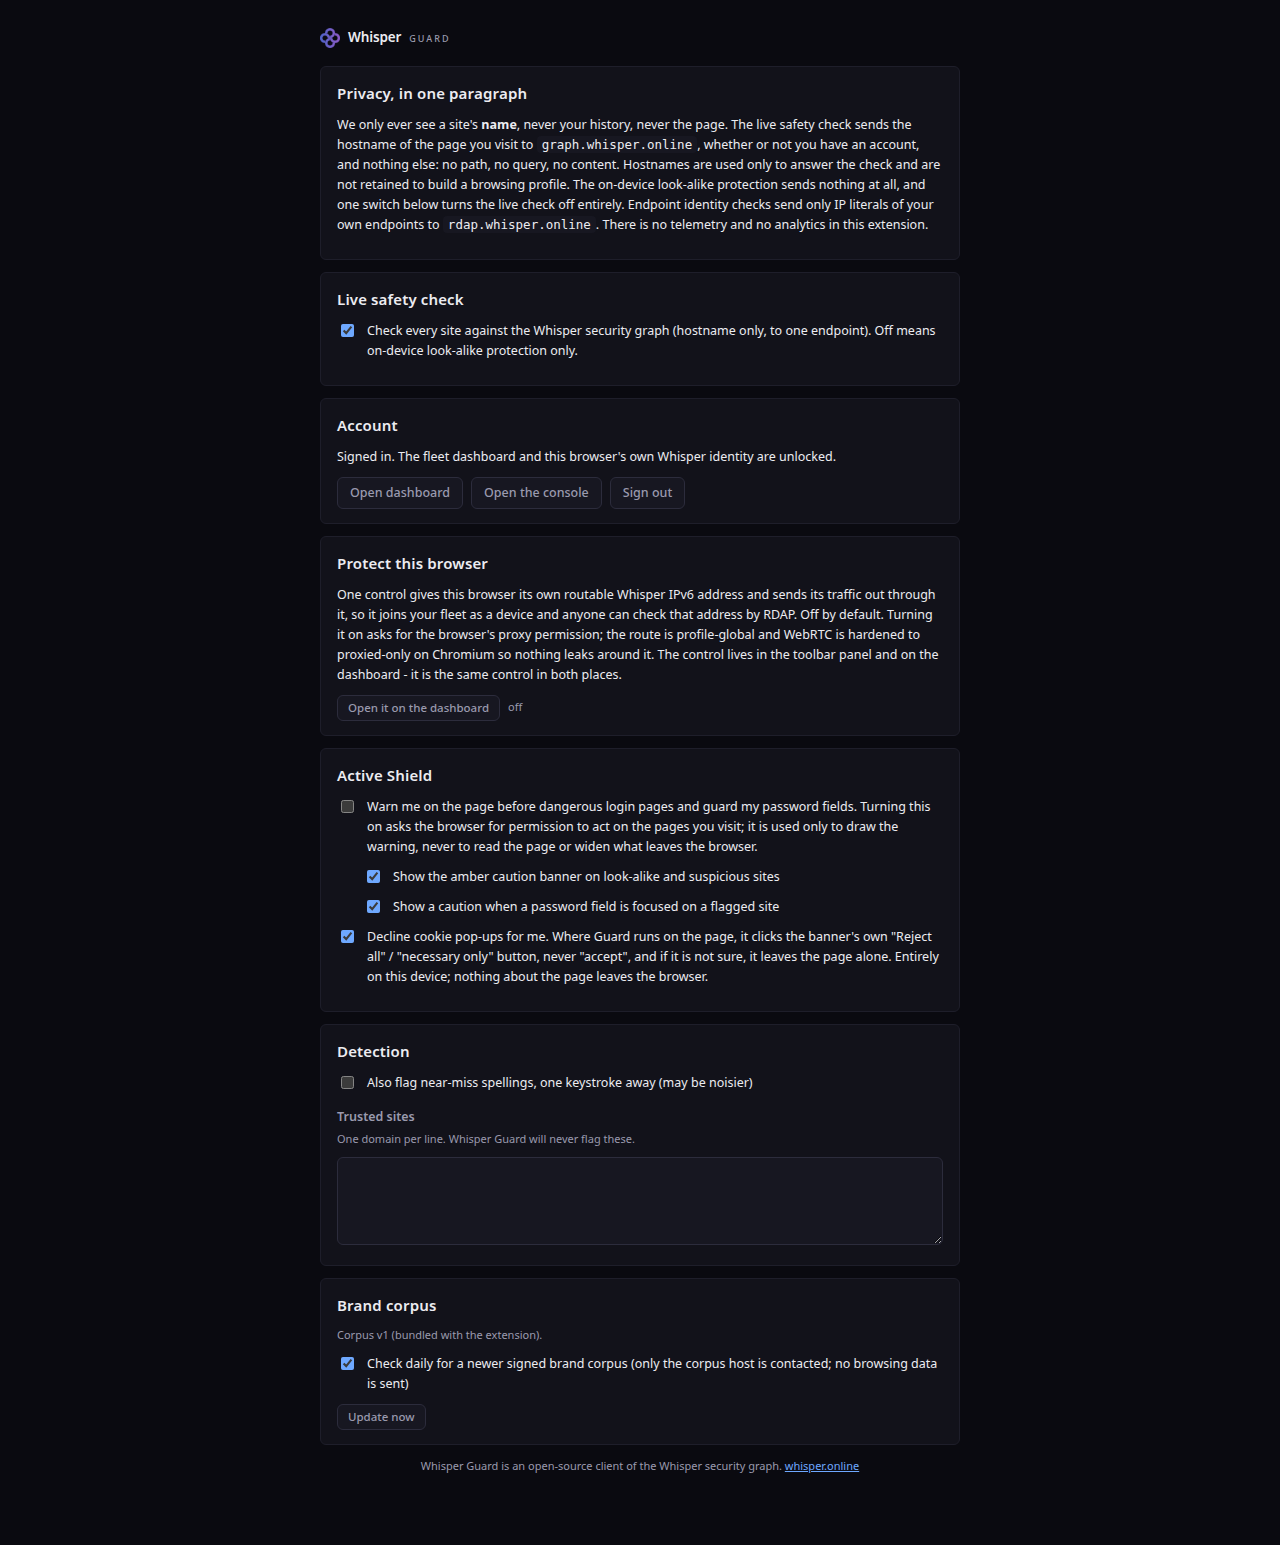
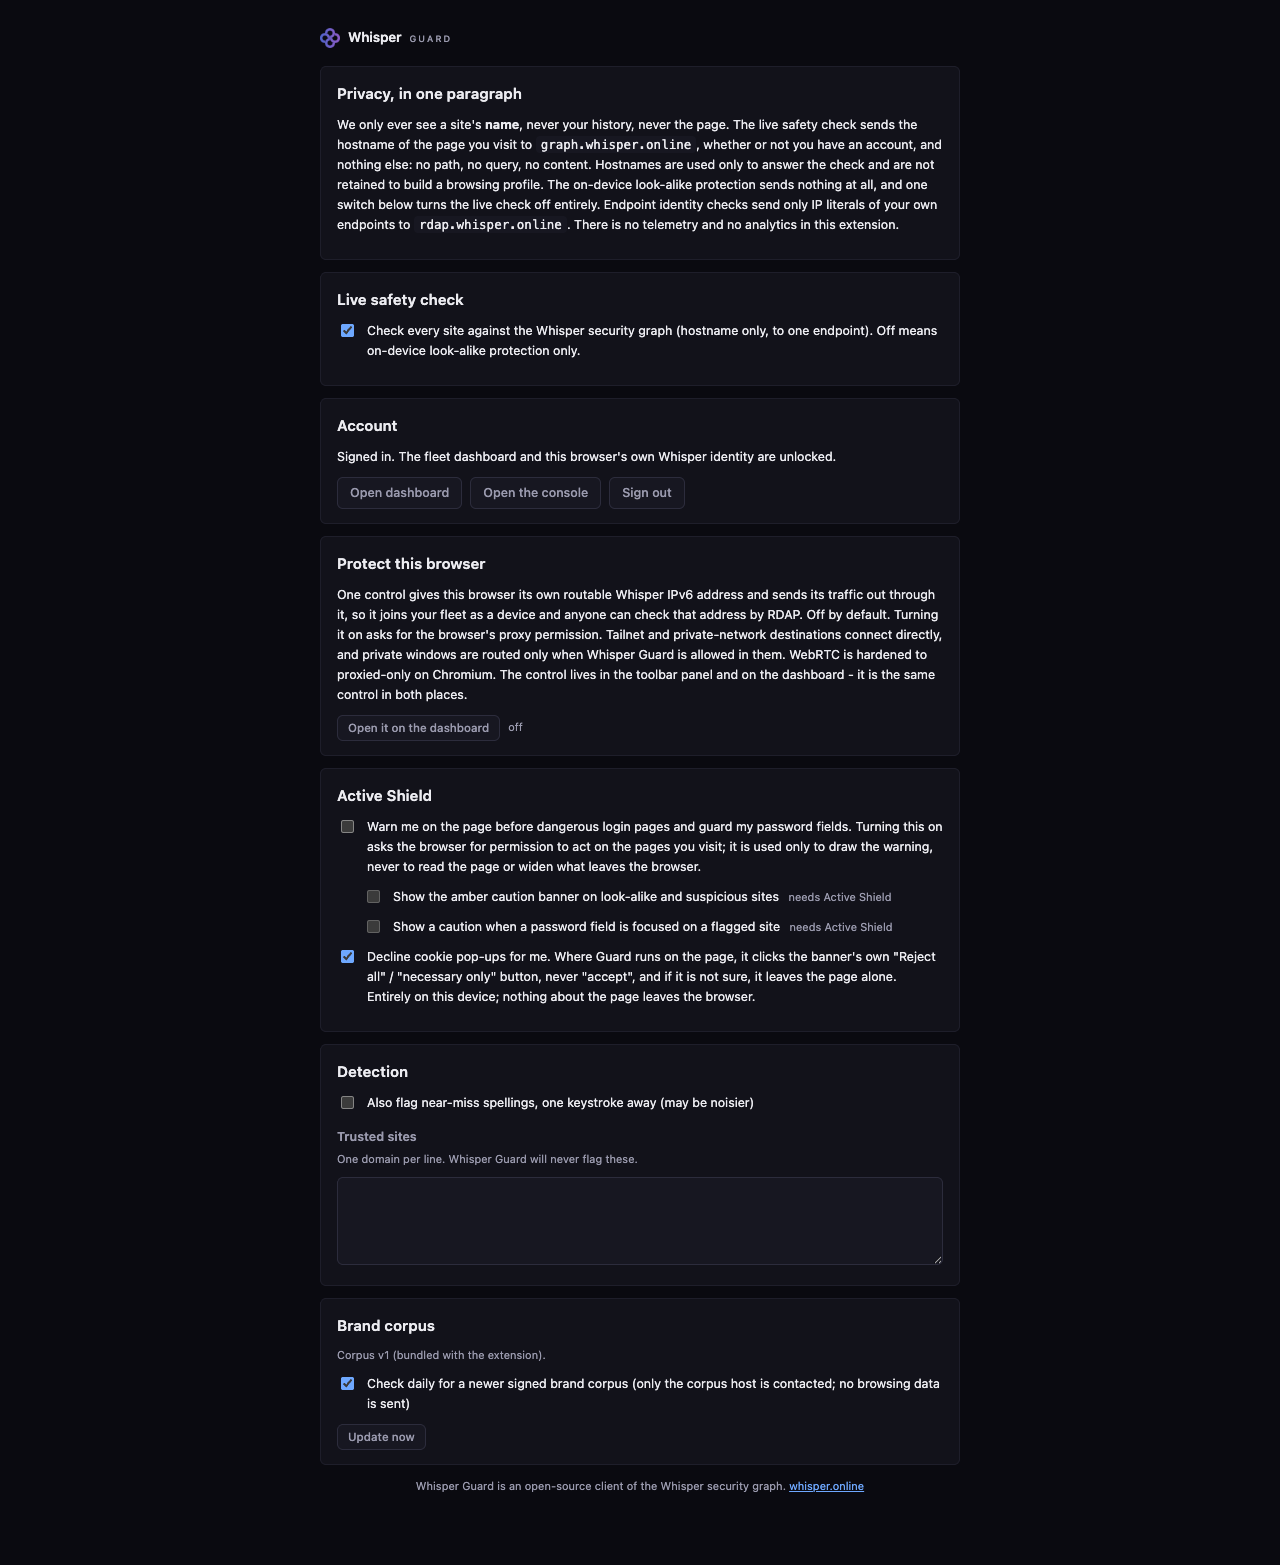
fix(firstrun): show protections that need Active Shield as not on
On a fresh install the first-run page drew the credential-field guard
and the in-page warning banner as on, and Settings showed their two
sub-toggles checked and enabled under an unchecked Active Shield.
Neither protection can run until Active Shield is on and the all-sites
grant is held, so a new user expected a warning that never came.

First run and Settings now read the stored Active Shield setting and
the grant together. A protection that cannot run yet is drawn off, says
"needs Active Shield", and keeps the stored preference: rendering never
writes settings. Once Active Shield is on and granted, both read on.

- First run: the two rows show an off mark and a detail starting "Needs
  Active Shield." The page updates in place on permission and settings
  changes.
- Settings: the two sub-toggles are unchecked and disabled, each with a
  note, until Active Shield is on. Checking Active Shield enables them
  without a reload.
- A failed grant check counts as not granted.
- The six first-run and Settings captures are regenerated to show the
  fixed state. No other capture and no store image changes.
- Tests: a hermetic spec covers no grant, the grant held with Active
  Shield off, on and granted, and both in-place updates.

Closes #53

diff --git a/e2e/shield-dependent.spec.ts b/e2e/shield-dependent.spec.ts
@@ -1,0 +1,132 @@
+// SPDX-License-Identifier: MIT
+// Copyright (c) 2026 viaGraph B.V. (Whisper Security)
+//
+// The credential-field guard and the in-page banner cannot run until Active
+// Shield is on (the setting AND the all-sites grant). Neither the first-run
+// page nor Settings may draw them on before then, and the stored preference
+// must survive. The grant arrives install-time via makeShieldDist; the
+// default dist holds no grant.
+
+import { test, expect, type Page } from "@playwright/test";
+import { launchExtension, makeShieldDist, setSettings, type Extension } from "./helpers/extension";
+
+async function open(ext: Extension, file: string): Promise<Page> {
+  const page = await ext.context.newPage();
+  await page.goto(`chrome-extension://${ext.id}/${file}`);
+  return page;
+}
+
+const row = (page: Page, key: string) => page.locator(`.active-row[data-key=${key}]`);
+
+// Read through the background's own reader, from an extension page: a fresh
+// profile has no stored record yet, so the defaults are the preference.
+async function stored(page: Page): Promise<Record<string, unknown>> {
+  return page.evaluate(async () => {
+    const res = (await chrome.runtime.sendMessage({ kind: "getSettings" })) as { settings: Record<string, unknown> };
+    return res.settings;
+  });
+}
+
+test.describe("no all-sites grant", () => {
+  let ext: Extension;
+  test.beforeAll(async () => {
+    ext = await launchExtension();
+  });
+  test.afterAll(async () => {
+    await ext?.close();
+  });
+
+  test("first run: field guard and banner read 'needs Active Shield' when no all-sites grant is held", async () => {
+    const page = await open(ext, "firstrun.html");
+    // CONTROL: a row that does not depend on Active Shield reads on, so the list rendered.
+    await expect(page.locator(".active-row", { hasText: "Look-alike detector" })).toHaveAttribute("data-state", "on");
+    for (const key of ["fieldGuard", "amberBanner"]) {
+      await expect(row(page, key)).toHaveAttribute("data-state", "needs-shield");
+      await expect(row(page, key)).toContainText(/needs Active Shield/i);
+      await expect(row(page, key).locator("svg title")).toHaveText("needs Active Shield");
+    }
+    await page.close();
+  });
+
+  test("settings: banner and field-guard sub-toggles are unchecked, disabled and say 'needs Active Shield' without the grant", async () => {
+    const page = await open(ext, "options.html");
+    for (const [id, note] of [
+      ["#opt-banner", "#banner-needs"],
+      ["#opt-fieldguard", "#fieldguard-needs"],
+    ] as const) {
+      await expect(page.locator(id)).not.toBeChecked();
+      await expect(page.locator(id)).toBeDisabled();
+      await expect(page.locator(note)).toBeVisible();
+      await expect(page.locator(note)).toHaveText(/needs Active Shield/i);
+    }
+    const s = await stored(page);
+    expect(s["amberBanner"]).toBe(true);
+    expect(s["fieldGuard"]).toBe(true);
+    await page.close();
+  });
+});
+
+test.describe("all-sites grant held", () => {
+  let ext: Extension;
+  test.beforeAll(async () => {
+    ext = await launchExtension({ dist: makeShieldDist() });
+  });
+  test.afterAll(async () => {
+    await ext?.close();
+  });
+
+  test("first run and settings: holding the grant with Active Shield switched off still reads 'needs Active Shield'", async () => {
+    await setSettings(ext, { shield: false });
+    const first = await open(ext, "firstrun.html");
+    for (const key of ["fieldGuard", "amberBanner"]) {
+      await expect(row(first, key)).toHaveAttribute("data-state", "needs-shield");
+    }
+    await first.close();
+    const opts = await open(ext, "options.html");
+    await expect(opts.locator("#opt-shield")).not.toBeChecked();
+    await expect(opts.locator("#opt-banner")).toBeDisabled();
+    await expect(opts.locator("#opt-fieldguard")).not.toBeChecked();
+    await opts.close();
+  });
+
+  test("first run and settings: with Active Shield on and granted, field guard and banner read on", async () => {
+    await setSettings(ext, { shield: true, amberBanner: true, fieldGuard: true });
+    const first = await open(ext, "firstrun.html");
+    for (const key of ["fieldGuard", "amberBanner"]) {
+      await expect(row(first, key)).toHaveAttribute("data-state", "on");
+    }
+    await first.close();
+    const opts = await open(ext, "options.html");
+    for (const [id, note] of [
+      ["#opt-banner", "#banner-needs"],
+      ["#opt-fieldguard", "#fieldguard-needs"],
+    ] as const) {
+      await expect(opts.locator(id)).toBeChecked();
+      await expect(opts.locator(id)).toBeEnabled();
+      await expect(opts.locator(note)).toBeHidden();
+    }
+    await opts.close();
+  });
+
+  test("first run: an open page flips to on when Active Shield is switched on", async () => {
+    await setSettings(ext, { shield: false });
+    const first = await open(ext, "firstrun.html");
+    await expect(row(first, "fieldGuard")).toHaveAttribute("data-state", "needs-shield");
+    await setSettings(ext, { shield: true });
+    await expect(row(first, "fieldGuard")).toHaveAttribute("data-state", "on");
+    await expect(row(first, "amberBanner")).toHaveAttribute("data-state", "on");
+    await first.close();
+  });
+
+  test("settings: switching Active Shield on enables the two sub-toggles without a reload", async () => {
+    await setSettings(ext, { shield: false });
+    const opts = await open(ext, "options.html");
+    await expect(opts.locator("#opt-banner")).toBeDisabled();
+    await opts.locator("#opt-shield").check();
+    await expect(opts.locator("#opt-banner")).toBeEnabled();
+    await expect(opts.locator("#opt-banner")).toBeChecked();
+    await expect(opts.locator("#opt-fieldguard")).toBeEnabled();
+    await expect(opts.locator("#banner-needs")).toBeHidden();
+    await opts.close();
+  });
+});

diff --git a/src/pages/firstrun.ts b/src/pages/firstrun.ts
@@ -19,6 +19,8 @@
 import { send, type CheckHostResult } from "../shared/messages";
 import type { GraphScale, Settings } from "../shared/types";
 import { compact, countUp, sparkline } from "../shared/spark";
+import { ext } from "../shared/api";
+import { shieldActive, shieldGranted } from "../shared/shield-state";
 
 const $ = (id: string): HTMLElement => document.getElementById(id) as HTMLElement;
 
@@ -105,7 +107,7 @@ async function loadScale(): Promise<void> {
  * this extension doing for me right now", which is the only question a first
  * run has to answer.
  */
-function stateMark(on: boolean): SVGSVGElement {
+function stateMark(on: boolean, title?: string): SVGSVGElement {
   const NS = "http://www.w3.org/2000/svg";
   const svg = document.createElementNS(NS, "svg");
   svg.setAttribute("viewBox", "0 0 26 14");
@@ -113,7 +115,7 @@ function stateMark(on: boolean): SVGSVGElement {
   svg.setAttribute("height", "14");
   svg.setAttribute("role", "img");
   const t = document.createElementNS(NS, "title");
-  t.textContent = on ? "on" : "off";
+  t.textContent = title ?? (on ? "on" : "off");
   svg.appendChild(t);
   const track = document.createElementNS(NS, "rect");
   track.setAttribute("x", "0.75");
@@ -134,10 +136,15 @@ function stateMark(on: boolean): SVGSVGElement {
   return svg;
 }
 
-function activeRow(on: boolean, name: string, detail: string): HTMLElement {
-  const row = el("div", `active-row${on ? "" : " off"}`);
+type RowState = "on" | "off" | "needs-shield";
+
+function activeRow(state: boolean | RowState, name: string, detail: string, key?: string): HTMLElement {
+  const st: RowState = state === true ? "on" : state === false ? "off" : state;
+  const row = el("div", `active-row${st === "on" ? "" : " off"}`);
+  if (key) row.dataset["key"] = key;
+  row.dataset["state"] = st;
   const mark = el("span", "active-mark");
-  mark.appendChild(stateMark(on));
+  mark.appendChild(stateMark(st === "on", st === "needs-shield" ? "needs Active Shield" : undefined));
   row.append(mark, el("span", "active-name", name), el("span", "active-detail", detail));
   return row;
 }
@@ -160,6 +167,11 @@ async function loadActive(): Promise<void> {
     return;
   }
   const s = res.settings;
+  const granted = await shieldGranted();
+  const active = shieldActive(s, granted);
+  // A protection that cannot run yet is never drawn on. The stored
+  // preference is untouched; it reads on again once Active Shield is.
+  const gated = (pref: boolean): RowState => (!active ? "needs-shield" : pref ? "on" : "off");
   // The brand figure is the corpus the detector loaded, counted. When it
   // could not be counted the sentence simply does not carry a number.
   const brands = res.corpusBrands > 0 ? `${res.corpusBrands.toLocaleString("en")} heavily phished brands` : "the bundled brand list";
@@ -173,9 +185,10 @@ async function loadActive(): Promise<void> {
     ),
     activeRow(true, "Look-alike detector", `On-device, watching ${brands}. Sends nothing.`),
     activeRow(
-      s.fieldGuard,
+      gated(s.fieldGuard),
       "Credential-field guard",
-      "Warns before a password or card is typed into a site the graph does not vouch for.",
+      `${active ? "" : "Needs Active Shield. "}Warns before a password or card is typed into a site the graph does not vouch for.`,
+      "fieldGuard",
     ),
     activeRow(
       s.cookieDecline,
@@ -183,14 +196,15 @@ async function loadActive(): Promise<void> {
       "Clicks reject, never accept, entirely on this device.",
     ),
     activeRow(
-      s.amberBanner,
+      gated(s.amberBanner),
       "In-page warning banner",
-      "Says so on the page itself when a site is only partly trusted.",
+      `${active ? "" : "Needs Active Shield. "}Says so on the page itself when a site is only partly trusted.`,
+      "amberBanner",
     ),
     activeRow(
-      s.shield,
+      active,
       "Active Shield",
-      s.shield
+      active
         ? "Known-bad destinations are blocked before they load."
         : "Off until you grant it: it needs permission for every site.",
     ),
@@ -200,6 +214,15 @@ async function loadActive(): Promise<void> {
 void loadSample();
 void loadScale();
 void loadActive();
+
+// A grant or a settings change elsewhere (the Settings toggle) re-reads the
+// state in place. The grant lands before the setting does, so the storage
+// listener is what settles the final picture.
+ext.permissions.onAdded.addListener(() => void loadActive());
+ext.permissions.onRemoved.addListener(() => void loadActive());
+ext.storage.onChanged.addListener((changes, area) => {
+  if (area === "local" && "settings" in changes) void loadActive();
+});
 
 $("btn-later").addEventListener("click", () => {
   window.close();

diff --git a/src/options/options.ts b/src/options/options.ts
@@ -9,9 +9,36 @@
 import { send } from "../shared/messages";
 import { CONSOLE_URL } from "../shared/config";
 import type { Settings } from "../shared/types";
+import { ext } from "../shared/api";
+import { shieldActive, shieldGranted } from "../shared/shield-state";
 
 const $ = <T extends HTMLElement>(id: string): T => document.getElementById(id) as T;
 const check = (id: string): HTMLInputElement => $(id) as unknown as HTMLInputElement;
+
+/**
+ * The Active Shield block. The two sub-toggles cannot do anything until
+ * Active Shield is on (setting and grant), so until then they are drawn
+ * unchecked and disabled with a note. The stored preference is never touched
+ * here: render only, no writes.
+ */
+async function renderShieldDeps(settings: Settings): Promise<void> {
+  const granted = await shieldGranted();
+  const active = shieldActive(settings, granted);
+  check("opt-shield").checked = active;
+  for (const [id, noteId, pref] of [
+    ["opt-banner", "banner-needs", settings.amberBanner],
+    ["opt-fieldguard", "fieldguard-needs", settings.fieldGuard],
+  ] as const) {
+    check(id).checked = active && pref;
+    check(id).disabled = !active;
+    $(noteId).hidden = active;
+  }
+}
+
+async function readSettings(): Promise<Settings | null> {
+  const res = await send<{ ok: true; settings: Settings }>({ kind: "getSettings" });
+  return res.ok ? res.settings : null;
+}
 
 async function refresh(): Promise<void> {
   const res = await send<{
@@ -26,10 +53,7 @@ async function refresh(): Promise<void> {
   $("account-signedout").hidden = res.signedIn;
   $("account-signedin").hidden = !res.signedIn;
 
-  const granted = await chrome.permissions.contains({ origins: ["<all_urls>"] });
-  check("opt-shield").checked = res.settings.shield && granted;
-  check("opt-banner").checked = res.settings.amberBanner;
-  check("opt-fieldguard").checked = res.settings.fieldGuard;
+  await renderShieldDeps(res.settings);
   check("opt-cookiedecline").checked = res.settings.cookieDecline;
   check("opt-nearmiss").checked = res.settings.nearMiss;
   check("opt-corpusupdate").checked = res.settings.corpusAutoUpdate;
@@ -47,6 +71,11 @@ async function refresh(): Promise<void> {
     : "";
 }
 
+async function rerenderShield(): Promise<void> {
+  const s = await readSettings();
+  if (s) await renderShieldDeps(s);
+}
+
 function wire(): void {
   check("opt-shield").addEventListener("change", async (ev) => {
     const on = (ev.target as HTMLInputElement).checked;
@@ -58,6 +87,13 @@ function wire(): void {
       }
     }
     await send({ kind: "setSettings", patch: { shield: on } });
+    await rerenderShield();
+  });
+
+  ext.permissions.onAdded.addListener(() => void rerenderShield());
+  ext.permissions.onRemoved.addListener(() => void rerenderShield());
+  ext.storage.onChanged.addListener((changes, area) => {
+    if (area === "local" && "settings" in changes) void rerenderShield();
   });
 
   for (const [id, key] of [

diff --git a/src/shared/shield-state.ts b/src/shared/shield-state.ts
@@ -1,0 +1,27 @@
+// SPDX-License-Identifier: MIT
+// Copyright (c) 2026 viaGraph B.V. (Whisper Security)
+//
+// Whether Active Shield can actually run, for the pages that draw it.
+//
+// The runtime gate is the stored setting AND the browser's all-sites grant
+// (background/index.ts). The two on-page protections (the credential-field
+// guard and the warning banner) cannot run until both hold, so a page that
+// draws them "on" from their own setting alone claims what is not happening.
+// Reading the two together here keeps the pages and the runtime in step.
+
+import { ext } from "./api";
+import type { Settings } from "./types";
+
+/** Whether the browser currently holds the all-sites grant. Any failure is "no". */
+export async function shieldGranted(): Promise<boolean> {
+  try {
+    return (await ext.permissions.contains({ origins: ["<all_urls>"] })) === true;
+  } catch {
+    return false;
+  }
+}
+
+/** Active Shield is effectively on only with the setting and the grant together. */
+export function shieldActive(s: Pick<Settings, "shield">, granted: boolean): boolean {
+  return s.shield && granted;
+}

diff --git a/src/options/options.html b/src/options/options.html
@@ -89,12 +89,14 @@
         widen what leaves the browser.</span>
       </label>
       <label class="toggle sub">
-        <input type="checkbox" id="opt-banner">
-        <span>Show the amber caution banner on look-alike and suspicious sites</span>
+        <input type="checkbox" id="opt-banner" aria-describedby="banner-needs">
+        <span>Show the amber caution banner on look-alike and suspicious sites
+        <span class="w-note needs-shield" id="banner-needs" hidden>needs Active Shield</span></span>
       </label>
       <label class="toggle sub">
-        <input type="checkbox" id="opt-fieldguard">
-        <span>Show a caution when a password field is focused on a flagged site</span>
+        <input type="checkbox" id="opt-fieldguard" aria-describedby="fieldguard-needs">
+        <span>Show a caution when a password field is focused on a flagged site
+        <span class="w-note needs-shield" id="fieldguard-needs" hidden>needs Active Shield</span></span>
       </label>
       <label class="toggle">
         <input type="checkbox" id="opt-cookiedecline">

diff --git a/src/options/options.css b/src/options/options.css
@@ -25,6 +25,9 @@ code { background: var(--w-elev); padding: 1px 5px; border-radius: 4px; font-fam
 
 .toggle { display: flex; align-items: flex-start; gap: 10px; margin: 10px 0; cursor: pointer; }
 .toggle.sub { margin-left: 26px; }
+.toggle.sub input:disabled { cursor: default; }
+.toggle.sub:has(input:disabled) { cursor: default; }
+.toggle .needs-shield { margin-left: 6px; }
 .toggle input { margin-top: 3px; flex: none; accent-color: var(--w-accent); }
 
 .row { display: flex; align-items: center; }
